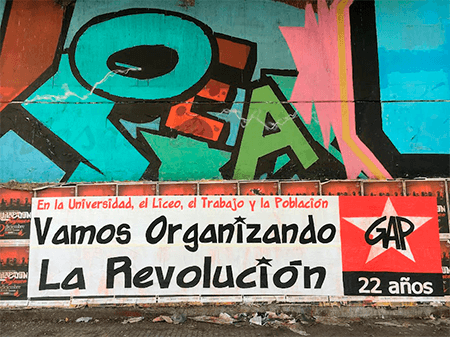
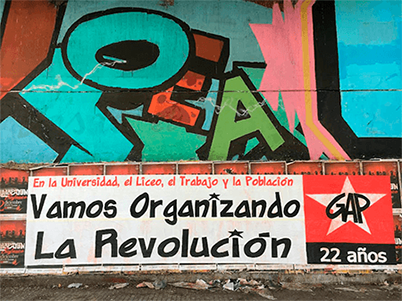
scrset graficas

diff --git a/secciones/graficas.html b/secciones/graficas.html
@@ -123,7 +123,12 @@
                 <!--Modulo de galería / Columna 2-->
                 <div class="item-galeria col-12 col-md-4" data-aos="fade-up" data-aos-duration="1500">
                     <a href="https://photos.app.goo.gl/zjeMdgwXh43UFt1PA" target="_blank" rel="nofollow">
-                        <img src="../media/graficas__1_7.webp" alt="Papelógrafo político sobre carteles">
+                        <picture>
+                            <source media="(max-width: 480px)" srcset="../media/m_graficas__1_7.webp">
+                            <source media="(min-width: 720px) and (max-width: 1024px)"
+                                srcset="../media/t_graficas__1_7.webp">
+                            <img src="../media/graficas__1_7.webp" alt="Papelógrafo político sobre carteles">
+                        </picture>
                         <p>Papelógrafo</p>
                     </a>
                 </div>
@@ -133,7 +138,12 @@
                 <div class="item-galeria col-12 col-md-4" data-aos="fade-up" data-aos-duration="1500"
                     data-aos-delay="50">
                     <a href="https://photos.app.goo.gl/MaYGL6BeGWspQZko9" target="_blank" rel="nofollow">
-                        <img src="../media/graficas__2_7.webp" alt="Cartel político – Juntos refundemos Chile">
+                        <picture>
+                            <source media="(max-width: 480px)" srcset="../media/m_graficas__2_7.webp">
+                            <source media="(min-width: 720px) and (max-width: 1024px)"
+                                srcset="../media/t_graficas__2_7.webp">
+                            <img src="../media/graficas__2_7.webp" alt="Cartel político – Juntos refundemos Chile">
+                        </picture>
                         <p>Cartel</p>
                     </a>
                 </div>
@@ -151,7 +161,12 @@
                 <!--Modulo de galería / Columna 2-->
                 <div class="item-galeria col-12 col-md-4" data-aos="fade-up" data-aos-duration="1500">
                     <a href="https://photos.app.goo.gl/ji7jXEtsz8NMmWN16" target="_blank" rel="nofollow">
-                        <img src="../media/graficas__3_7.webp" alt="Mensaje impreso sobre carteles">
+                        <picture>
+                            <source media="(max-width: 480px)" srcset="../media/m_graficas__3_7.webp">
+                            <source media="(min-width: 720px) and (max-width: 1024px)"
+                                srcset="../media/t_graficas__3_7.webp">
+                            <img src="../media/graficas__3_7.webp" alt="Mensaje impreso sobre carteles">
+                        </picture>
                         <p>Impresos</p>
                     </a>
                 </div>
@@ -159,9 +174,14 @@
 
                 <!--Modulo de galería / Columna 3-->
                 <div class="item-galeria col-12 col-md-4" data-aos="fade-up" data-aos-duration="1500"
-                data-aos-delay="50">
+                    data-aos-delay="50">
                     <a href="https://photos.app.goo.gl/odZfenqHGzcMnn4d7" target="_blank" rel="nofollow">
-                        <img src="../media/graficas__4_7.webp" alt="Cartulina escrita a mano sobre carteles">
+                        <picture>
+                            <source media="(max-width: 480px)" srcset="../media/m_graficas__4_7.webp">
+                            <source media="(min-width: 720px) and (max-width: 1024px)"
+                                srcset="../media/t_graficas__4_7.webp">
+                            <img src="../media/graficas__4_7.webp" alt="Cartulina escrita a mano sobre carteles">
+                        </picture>
                         <p>Manuscritos</p>
                     </a>
                 </div>
@@ -181,7 +201,12 @@
                 <!--Modulo de galería / Columna 2-->
                 <div class="item-galeria col-12 col-md-8" data-aos="fade-up" data-aos-duration="1500">
                     <a href="https://photos.app.goo.gl/mfBYqZ9rX2Ft4QSr8" target="_blank" rel="nofollow">
-                        <img src="../media/graficas__5_7.webp" alt="Carteles sobre muro con mural de fondo">
+                        <picture>
+                            <source media="(max-width: 480px)" srcset="../media/m_graficas__5_7.webp">
+                            <source media="(min-width: 720px) and (max-width: 1024px)"
+                                srcset="../media/t_graficas__5_7.webp">
+                            <img src="../media/graficas__5_7.webp" alt="Carteles sobre muro con mural de fondo">
+                        </picture>
                     </a>
                 </div>
                 <!--Fin Módulo de galería / Columna 2-->
@@ -201,8 +226,13 @@
                 <!--Modulo de galería / Columna 2-->
                 <div class="item-galeria col-12 col-md-4" data-aos="fade-up" data-aos-duration="1500">
                     <a href="https://photos.app.goo.gl/MFxhartyMu6KEVzQ7" target="_blank" rel="nofollow">
-                        <img src="../media/graficas__6_7.webp"
-                            alt="Valla publicitaria a la altura de pasarela vehícular">
+                        <picture>
+                            <source media="(max-width: 480px)" srcset="../media/m_graficas__6_7.webp">
+                            <source media="(min-width: 720px) and (max-width: 1024px)"
+                                srcset="../media/t_graficas__6_7.webp">
+                            <img src="../media/graficas__6_7.webp"
+                                alt="Valla publicitaria a la altura de pasarela vehícular">
+                        </picture>
                         <p>Vallas publicitarias</p>
                     </a>
                 </div>
@@ -210,9 +240,14 @@
 
                 <!--Modulo de galería / Columna 3-->
                 <div class="item-galeria col-12 col-md-4" data-aos="fade-up" data-aos-duration="1500"
-                data-aos-delay="50">
+                    data-aos-delay="50">
                     <a href="https://photos.app.goo.gl/SZXMxgZ8W8vzVKCT6" target="_blank" rel="nofollow">
-                        <img src="../media/graficas__7_7.webp" alt="Poster de información del Metro de Santiago">
+                        <picture>
+                            <source media="(max-width: 480px)" srcset="../media/m_graficas__7_7.webp">
+                            <source media="(min-width: 720px) and (max-width: 1024px)"
+                                srcset="../media/t_graficas__7_7.webp">
+                            <img src="../media/graficas__7_7.webp" alt="Poster de información del Metro de Santiago">
+                        </picture>
                         <p>Señalética y gráfica institucional</p>
                     </a>
                 </div>

diff --git a/css/style.css b/css/style.css
@@ -551,7 +551,7 @@ nav.navbar {
     .container-galeria .row .item-galeria a {
       text-decoration: none;
       color: #000; }
-      .container-galeria .row .item-galeria a img {
+      .container-galeria .row .item-galeria a picture {
         width: 100%; }
       .container-galeria .row .item-galeria a p {
         font-size: 1.8rem; }

diff --git a/scss/components/_graficas.scss b/scss/components/_graficas.scss
@@ -40,7 +40,7 @@
                 text-decoration: none;
                 color: $colorPrim;
 
-                img{
+                picture{
                     width: 100% 
                 }
 
